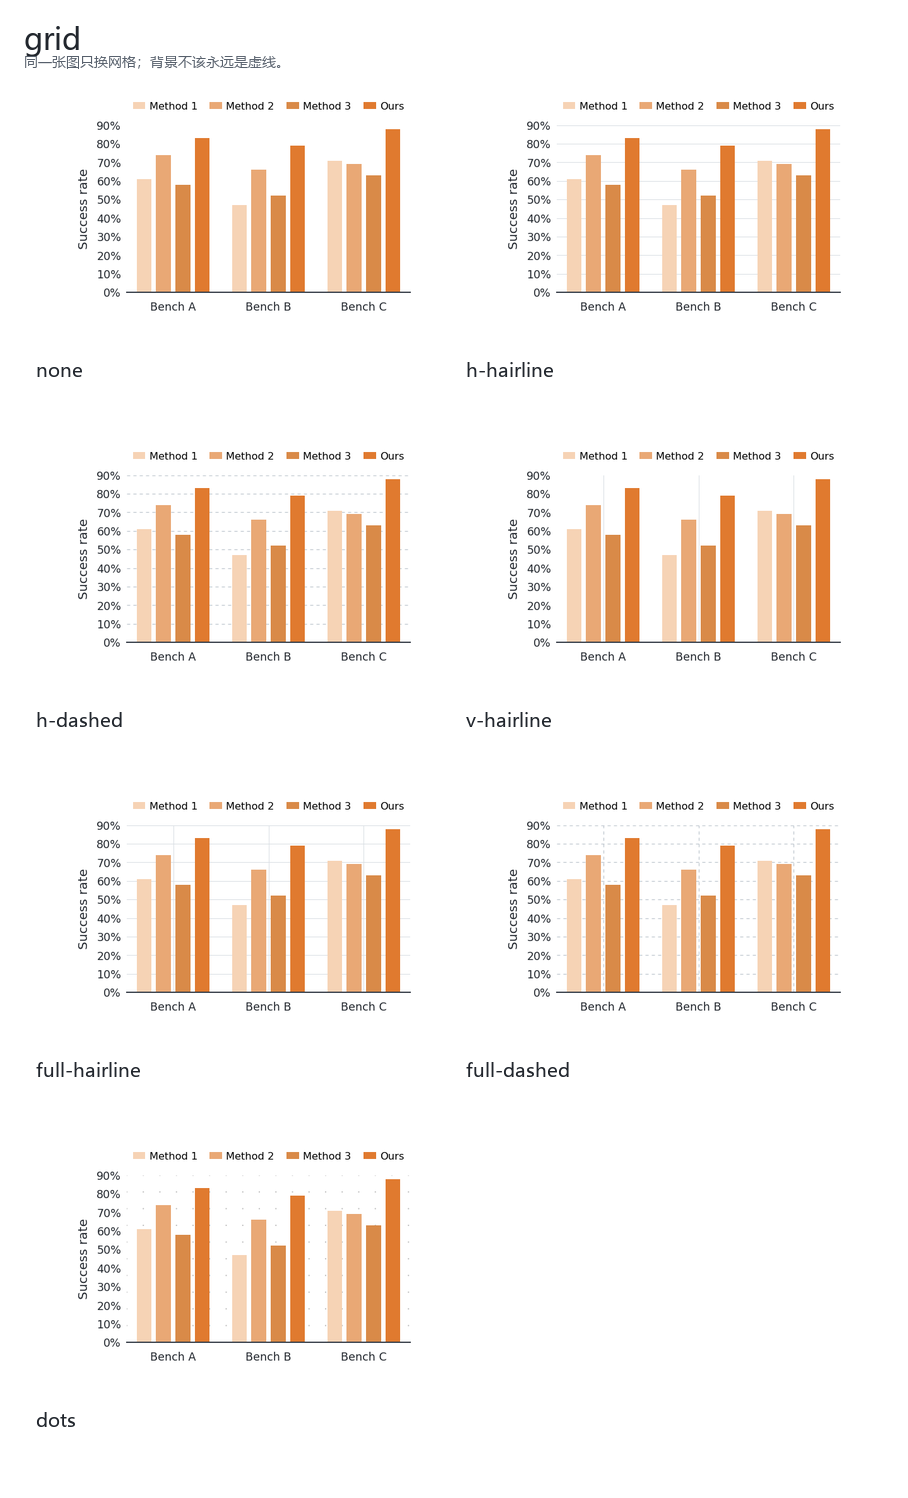
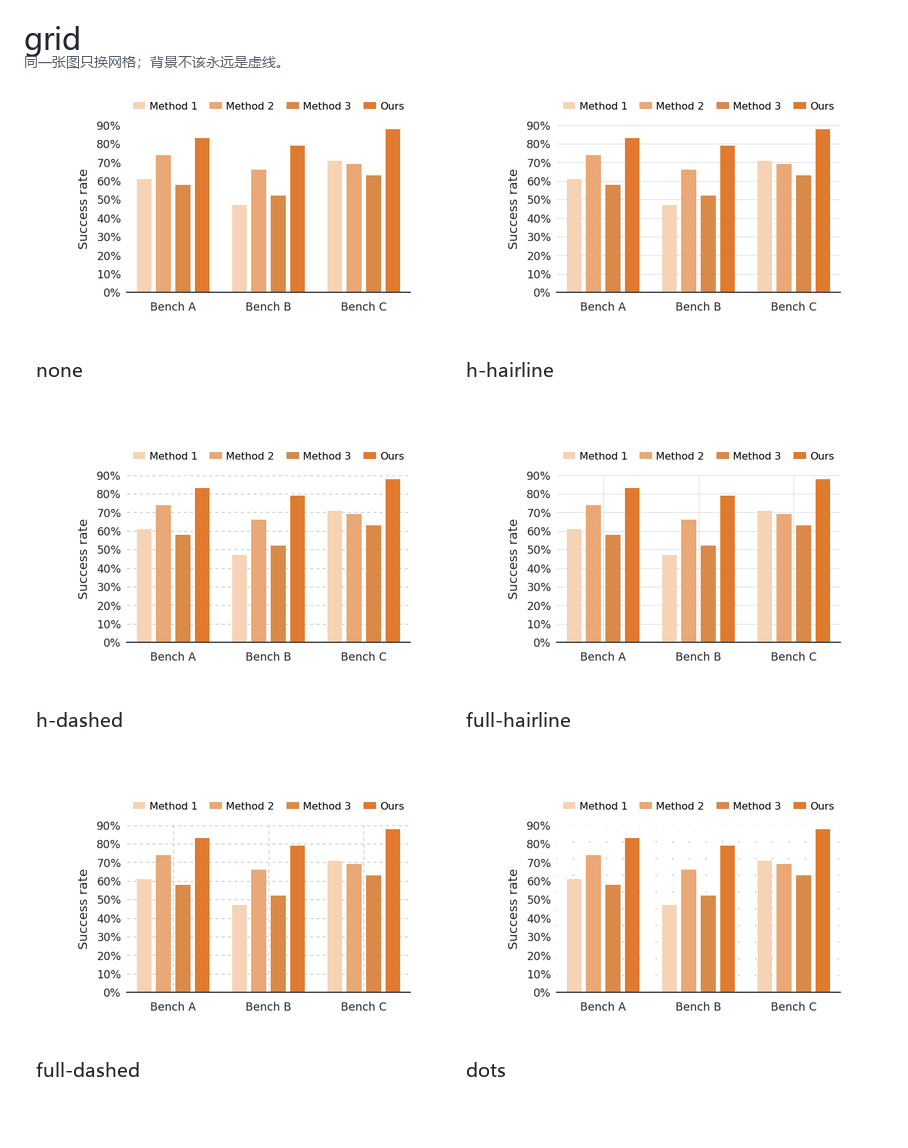
feat(axes): merge color structure and add panel gap review

diff --git a/research-figure-skill/examples/axis-review/render_review.py b/research-figure-skill/examples/axis-review/render_review.py
@@ -48,7 +48,6 @@ GRIDS = {
     "none": {"kind": "none"},
     "h-hairline": {"kind": "lines", "axis": "value", "color": "#D9DEE3", "linewidth": .4, "linestyle": "-", "alpha": 1},
     "h-dashed": {"kind": "lines", "axis": "value", "color": "#BFC7CF", "linewidth": .5, "linestyle": [0, [4, 4]], "alpha": 1},
-    "v-hairline": {"kind": "lines", "axis": "category", "color": "#D9DEE3", "linewidth": .4, "linestyle": "-", "alpha": 1},
     "full-hairline": {"kind": "lines", "axis": "both", "color": "#D9DEE3", "linewidth": .4, "linestyle": "-", "alpha": 1},
     "full-dashed": {"kind": "lines", "axis": "both", "color": "#BFC7CF", "linewidth": .5, "linestyle": [0, [4, 4]], "alpha": 1},
     "dots": {"kind": "dots", "color": "#BDBDBD", "spacing_pt": 10.5, "size": .75, "alpha": 1},
@@ -340,6 +339,9 @@ def sizes():
     for name, preset, size_pt, note in specs:
         cfg = config(rows, size=preset, colors=D_ORANGE + [ACCENTS["orange"]],
                      labels=LABELS4, figure_size=size_pt, legend=False)
+        if name == "tiny":
+            cfg["panel_defaults"].update(show_value_ticks=False, show_categories=False,
+                                         show_category_ticks=False, ylabel="")
         img = render_panel(rows, cfg, f"size-{name}")
         items.append({"image": img, "label": name, "note": note})
     make_sheet("size", "宽度、高度、长宽比都不同；不只是 single/double。", items, 3, "11-size.png")
@@ -373,8 +375,88 @@ def annotations():
                items, 3, "12-annotation.png")
 
 
+def color_structure():
+    focus = read("focus.csv")
+    paired = read("paired.csv")
+    categorical = read("categorical.csv")
+    items = []
+    specs = [
+        ("focus-neutral", focus, A_GRAY + [ACCENTS["orange"]], LABELS4,
+         "1 accent + neutral baselines"),
+        ("focus-tints", focus, D_ORANGE + [ACCENTS["orange"]], LABELS4,
+         "1 accent + accent tints"),
+        ("paired", paired, PAIRS["blue"], LABELS2,
+         "2 series, same hue light/dark"),
+        ("two-hue", paired, ["#5A9BD3", "#E07A2F"], LABELS2,
+         "2 series, two hues"),
+        ("focus-multi", focus, C_HUES + [ACCENTS["orange"]], LABELS4,
+         "1 accent + distinct baselines"),
+        ("multi-hue", categorical, CATEGORICAL["pastel-eight"], LABELS5,
+         "N distinct categories"),
+    ]
+    for name, rows, colors, labels, note in specs:
+        cfg = config(rows, colors=colors, labels=labels)
+        img = render_panel(rows, cfg, f"structure-{name}")
+        items.append({"image": img, "label": name, "note": note})
+    make_sheet("color structure", "先看 series 数：2 个还是 N 个；再决定用 accent、paired 还是 categorical。",
+               items, 3, "00-color-structure.png")
+
+
+def panel_gap():
+    rows = read("panels.csv")
+    panels = [{"id": "Environment A"}, {"id": "Environment B"}]
+    items = []
+    cfg = config(rows, layout="grouped", size="double",
+                 colors=[D_ORANGE[1], D_ORANGE[2], ACCENTS["orange"]],
+                 labels={"method-1": "Method 1", "method-2": "Method 2", "ours": "Ours"},
+                 panels=panels)
+    cfg["layout"] = {"columns": 2}
+    img = render_panel(rows, cfg, "gap-normal")
+    items.append({"image": img, "label": "normal gap", "note": "separate axes"})
+
+    cfg = config(rows, layout="grouped", size="double",
+                 colors=[D_ORANGE[1], D_ORANGE[2], ACCENTS["orange"]],
+                 labels={"method-1": "Method 1", "method-2": "Method 2", "ours": "Ours"},
+                 panels=panels)
+    cfg["layout"] = {"columns": 2, "column_gap_pt": 0}
+    img = render_panel(rows, cfg, "gap-zero")
+    items.append({"image": img, "label": "zero gap", "note": "axes touch, separate ticks"})
+
+    # A true composite: shared y axis, one y label, wspace=0, one legend.
+    groups = list(dict.fromkeys(r["group"] for r in rows))
+    series = list(dict.fromkeys(r["series"] for r in rows))
+    colors = {"method-1": D_ORANGE[1], "method-2": D_ORANGE[2], "ours": ACCENTS["orange"]}
+    fig, axes = backend.plt.subplots(1, 2, figsize=(6, 2.4), sharey=True,
+                                     gridspec_kw={"wspace": 0})
+    width = .26
+    for ax, panel in zip(axes, ["Environment A", "Environment B"]):
+        subset = [r for r in rows if r["panel"] == panel]
+        for k, name in enumerate(series):
+            vals = [float(r["value"]) for r in subset if r["series"] == name]
+            ax.bar([i + (k - 1) * width for i in range(len(groups))], vals,
+                   width=width, color=colors[name], label=name, linewidth=0)
+        ax.set_xticks(range(len(groups)))
+        ax.set_xticklabels(groups, fontsize=7)
+        ax.set_ylim(0, .9)
+        ax.set_yticks([0, .3, .6, .9])
+        ax.set_yticklabels(["0%", "30%", "60%", "90%"], fontsize=7)
+        for side in ("top", "right"):
+            ax.spines[side].set_visible(False)
+        ax.tick_params(length=2, labelsize=7)
+    axes[1].tick_params(labelleft=False)
+    axes[0].set_ylabel("Success rate", fontsize=8)
+    axes[0].legend(frameon=False, fontsize=6.5, ncol=3, loc="lower center",
+                   bbox_to_anchor=(1.0, 1.02), borderaxespad=0)
+    fig.savefig(HERE / "panels" / "gap-composite.png", dpi=180, bbox_inches="tight")
+    items.append({"image": HERE / "panels" / "gap-composite.png",
+                  "label": "composite", "note": "shared y, one label/legend"})
+    make_sheet("panel gap", "normal / zero gap / composite；无间距不等于复合子图。",
+               items, 3, "13-panel-gap.png")
+
+
 def main():
     (HERE / "panels").mkdir(exist_ok=True)
+    color_structure()
     baseline_color()
     baseline_mark()
     baseline_matrix()
@@ -387,14 +469,15 @@ def main():
     layouts()
     sizes()
     annotations()
+    panel_gap()
     index = {"version": 1,
-             "sheets": ["01-baseline-color.png", "02-baseline-mark.png", "03-baseline-matrix.png",
-                        "04-accent.png", "05-paired.png", "06-categorical.png", "07-grid.png",
-                        "08-style.png", "09-type.png", "10-layout.png", "11-size.png",
-                        "12-annotation.png"],
-             "axes": ["baseline color", "baseline mark", "baseline color x mark", "accent",
-                      "paired", "categorical", "grid", "style", "type", "layout", "size",
-                      "annotation"]}
+             "sheets": ["00-color-structure.png", "01-baseline-color.png", "02-baseline-mark.png",
+                        "03-baseline-matrix.png", "04-accent.png", "05-paired.png",
+                        "06-categorical.png", "07-grid.png", "08-style.png", "09-type.png",
+                        "10-layout.png", "11-size.png", "12-annotation.png", "13-panel-gap.png"],
+             "axes": ["color structure", "baseline color", "baseline mark",
+                      "baseline color x mark", "accent", "paired", "categorical", "grid",
+                      "style", "type", "layout", "size", "annotation", "panel gap"]}
     (HERE / "index.json").write_text(json.dumps(index, ensure_ascii=False, indent=2) + "\n", encoding="utf8")
     print("wrote", HERE / "index.json")
 

diff --git a/research-figure-skill/examples/axis-review/README.md b/research-figure-skill/examples/axis-review/README.md
@@ -6,18 +6,20 @@
 
 | 表 | 轴 | 你要判断什么 |
 |---|---|---|
+| `00-color-structure.png` | color structure | 2 series 还是 N series；accent / paired / categorical 的选择 |
 | `01-baseline-color.png` | baseline color | 全同色 / 灰阶 / 多色 / accent 浅色，保留哪些 |
 | `02-baseline-mark.png` | baseline mark | 实色 / 描边 / 半透明 / 纹理，哪些属于“baseline 处理” |
 | `03-baseline-matrix.png` | color × mark | 颜色和 mark 是正交的；组合后是否还成立 |
 | `04-accent.png` | accent hue | orange / blue / teal / green / rose，哪个作为默认 |
 | `05-paired.png` | paired palette | before/after 用哪组同色相浅深 |
 | `06-categorical.png` | categorical palette | 5 个等权类别用哪组 |
-| `07-grid.png` | grid | none / hairline / dashed / dots |
+| `07-grid.png` | grid | none / h-hairline / h-dashed / full-hairline / full-dashed / dots |
 | `08-style.png` | style | 6 个风格：paper / soft / serif / bold-slide / minimal-mono / hand-drawn |
 | `09-type.png` | type | Arial / Times / Consolas / Segoe UI / Comic Sans |
-| `10-layout.png` | layout | grouped / horizontal / paired / multi-panel |
-| `11-size.png` | size | single / medium / double / slide |
+| `10-layout.png` | layout | 竖/横 × 1/2/4 series × 单/多面板 |
+| `11-size.png` | size | 9 种宽度/高度/长宽比 |
 | `12-annotation.png` | annotation | delta / capacity / reference-line；increment 等 Codex |
+| `13-panel-gap.png` | panel gap | normal / zero gap / composite |
 
 ## 关于 outline / alpha / hatch
 
@@ -27,6 +29,16 @@
 - mark：每根 baseline 怎么画（实色、只描边、半透明、纹理）
 
 两者可以组合，所以 `03-baseline-matrix.png` 是 4×4 的矩阵。你只需要分别选一个，不需要逐格选。
+
+## Accent / Paired / Categorical 的关系
+
+它们不是三个平行问题，而是**同一个问题的三种 series 数**：
+
+- **2 series**：`paired`（同色相浅/深）或 `two-hue`（两个色相）
+- **1 个焦点 + N 个 baseline**：`focus-neutral`、`focus-tints`、`focus-multi`
+- **N 个无序类别**：`multi-hue`（categorical）
+
+`00-color-structure.png` 把这 6 种放在一张表里；`04-accent` / `05-paired` / `06-categorical` 是展开细节。
 
 ## 怎么给反馈
 
@@ -64,4 +76,4 @@ cd research-figure-skill
 python examples/axis-review/render_review.py
 ```
 
-输出本目录的 12 张表和 `panels/`。不下载图片或字体；颜色来自公开色卡或参考图采样。
+输出本目录的 14 张表和 `panels/`。不下载图片或字体；颜色来自公开色卡或参考图采样。
